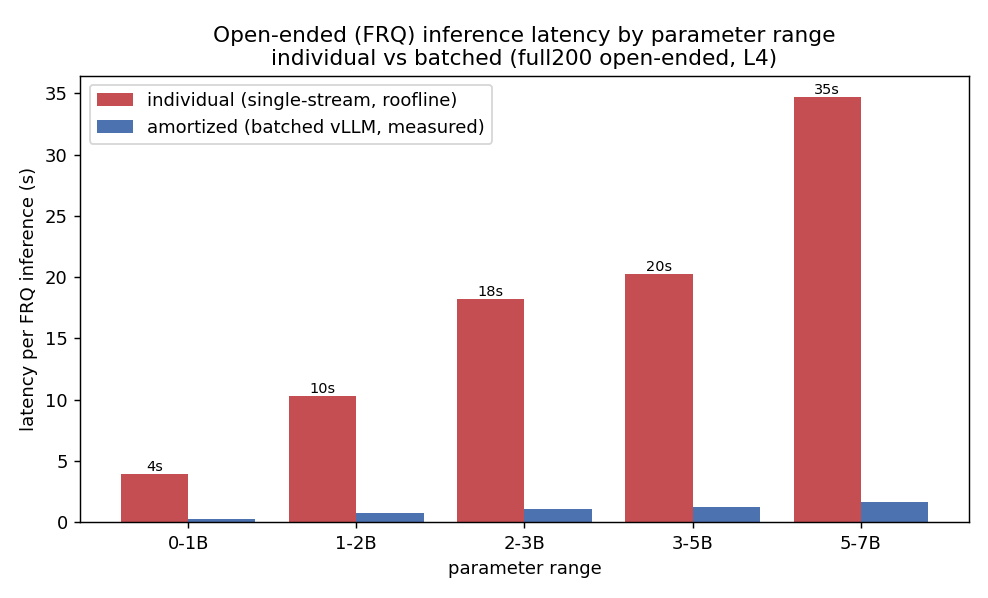
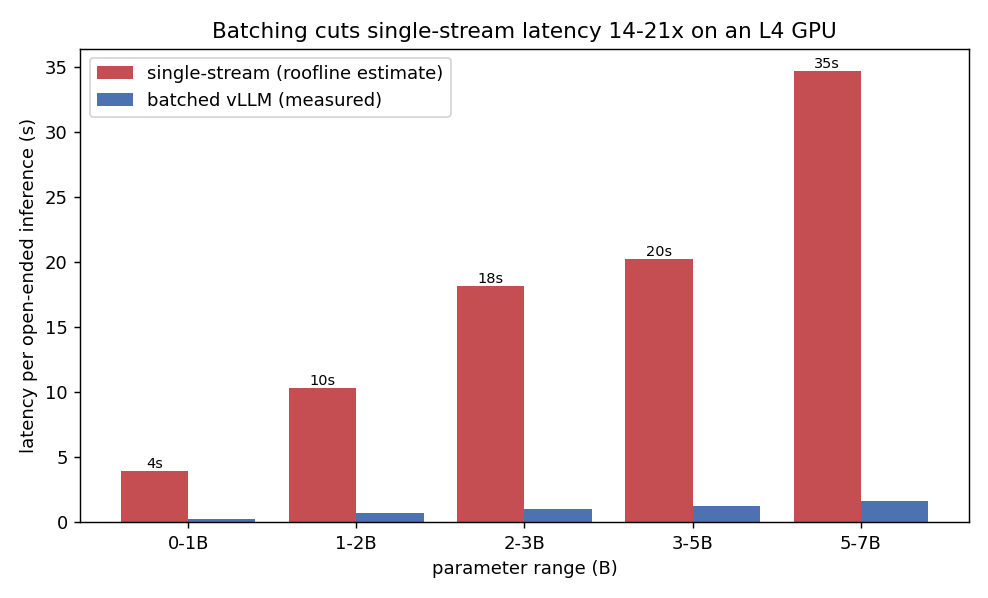
Inference cost: finalized cost-per-inference data and figures; Final_Graphs_and_Data

diff --git a/AdaptiveTesting/Research/04_Inference_Cost/README.md b/AdaptiveTesting/Research/04_Inference_Cost/README.md
@@ -1,87 +1,84 @@
-# Cost per inference vs. model size
+# Inference cost by task type and model size
 
-Measured single-inference latency for the full200 candidate models, converted to
-dollars, split by task type. **MCQ** and **open-ended** are reported separately;
-open-ended is further split into **3 input-token buckets**.
+We measured per-request latency for the full200 candidate models and converted it to
+dollars. MCQ and open-ended tasks are reported separately, and open-ended is split into
+three input-token buckets.
 
 ## Cost basis
-- Hardware: **g6.xlarge** (1× NVIDIA **L4**), on-demand us-east-1 = **$0.8048/hr**
-  (the GPU the full200 inference actually ran on).
-- `cost_per_inference_usd = Latency(s) × 0.8048 / 3600`.
-- `cost_per_1k_usd` = the same × 1000 (easier to read).
-- Raw `mean_latency_s` / `median_latency_s` are included so cost can be rescaled to
-  any other GPU price without re-measuring.
-- Latency is per-request wall time under batched vLLM (temperature 0). It reflects
-  effective throughput cost, not isolated single-stream latency.
+
+- Hardware: g6.xlarge, one NVIDIA L4, on-demand us-east-1 at $0.8048/hr. This is the GPU
+  the full200 inference ran on.
+- `cost_per_inference_usd = latency_s * 0.8048 / 3600`. `cost_per_1k_usd` is that times 1000.
+- We keep raw `mean_latency_s` and `median_latency_s` so cost can be rescaled to any other
+  GPU price without re-measuring.
+- Latency is per-request wall time under batched vLLM at temperature 0, so it reflects
+  effective throughput cost, not single-stream latency.
 
 ## Data sources
-- **Open-ended** (real, measured): `full200_results/Outputs/open/*/*.responses.jsonl`
-  — 52 models × 6 open benchmarks (biggen, bridge, infobench, tutorbench, tutoreval,
-  wildbench), 206,307 inferences with per-item `Prompt Tokens`, `Output Tokens`,
-  `Latency (s)`. All 6 benchmarks are **pooled**; rows are grouped per (model, bucket).
-- **MCQ** (real, measured): `eduLLM-Evals/mcq_runs/run_20260724_211626_mcq/responses.jsonl`
-  — the purely-MCQ generative sweep. Not all models finished; the **24 that completed**
-  are used (benchmark `cdpk_main`, 25 items each) with per-item `latency_sec`.
-  NOTE: the full200 MCQ (pedagogy/piqa/socialiqa) is loglikelihood-scored and records
-  **no latency**, so it cannot provide cost-per-inference — hence this separate run.
 
-## Input-token buckets (open-ended)
-Chosen at ~tertiles of the observed prompt-token distribution (p33≈117, p66≈530):
-- **Short**: `< 128` input tokens  (75,484 inferences)
-- **Medium**: `128–511` input tokens  (58,592 inferences)
-- **Long**: `>= 512` input tokens  (72,231 inferences)
+- Open-ended (measured): `full200_results/Outputs/open/*/*.responses.jsonl`. 52 models
+  across 6 benchmarks (biggen, bridge, infobench, tutorbench, tutoreval, wildbench),
+  206,307 inferences with per-item prompt tokens, output tokens, and latency. The 6
+  benchmarks are pooled and grouped per (model, bucket).
+- MCQ (measured): `eduLLM-Evals/mcq_runs/run_20260724_211626_mcq/responses.jsonl`, the
+  generative MCQ sweep. 24 models finished (benchmark `cdpk_main`, 25 items each) and are
+  used here. The full200 MCQ benchmarks (pedagogy, piqa, socialiqa) are loglikelihood
+  scored and record no latency, so they cannot give a cost per inference. That is why this
+  separate run exists.
 
-## Files
-- `data/mcq_cost_per_inference.csv` — per model: params_b, n_items, mean/median latency, cost.
-- `data/open_ended_cost_per_inference_by_token_bucket.csv` — per (model, bucket): params_b,
-  n, mean prompt/output tokens, mean/median latency, cost.
-- `graphs/individual_latency_by_param_range.png` — the featured figure (see below).
+Open-ended input buckets are cut at the tertiles of the prompt-token distribution (p33
+about 117, p66 about 530): Short is under 128 input tokens (75,484 inferences), Medium is
+128 to 511 (58,592), and Long is 512 or more (72,231).
 
-## Headline numbers (mean across models, cost per 1,000 inferences)
-| Task | Cost / 1k inferences |
+## Result 1: cost per inference by task and input length
+
+MCQ costs about $0.009 per 1,000 inferences. Open-ended costs about $0.20 to $0.23,
+roughly 20x to 25x more.
+
+| Task | Cost per 1k inferences |
 |---|---|
 | MCQ (cdpk_main, 24 models) | ~$0.009 |
-| Open-ended — Short input | ~$0.20 |
-| Open-ended — Medium input | ~$0.21 |
-| Open-ended — Long input | ~$0.23 |
+| Open-ended, Short input | ~$0.20 |
+| Open-ended, Medium input | ~$0.21 |
+| Open-ended, Long input | ~$0.23 |
 
-## Interpretation caveats
-- **Open-ended cost is driven by OUTPUT tokens, not input length**: the 3 input
-  buckets differ by only ~15% (Short→Long), because decode dominates latency. Scatter
-  within a size is large because different models generate very different output lengths.
-- **MCQ is ~20–25× cheaper** than open-ended: the generative MCQ answer is a few tokens,
-  so there is almost no decode cost.
-- MCQ and open-ended use different item sets / model sets and are **not** directly
-  comparable beyond order-of-magnitude.
+Numbers are the mean across models. Output tokens drive open-ended cost, not input length:
+the three input buckets differ by only about 15% from Short to Long because decode
+dominates. MCQ is cheap because the generated answer is a few tokens, so there is almost no
+decode. MCQ and open-ended use different item sets and model sets, so compare them only by
+order of magnitude.
 
-## Individual (single-stream) latency by parameter range — the outline's tutor-cost table
+Data: `data/mcq_cost_per_inference.csv`,
+`data/open_ended_cost_per_inference_by_token_bucket.csv`.
 
-`data/individual_latency_by_param_range.csv` + `graphs/individual_latency_by_param_range.png`
-(script `../scripts/param_range_latency.py`). For each band we report the measured mean
-prompt/output tokens, the measured **amortized (batched)** per-request latency, and an
-estimated **individual (single-stream)** latency from a memory-bandwidth decode roofline
-(L4: 300 GB/s, 60% efficiency, 2 bytes/param).
+## Result 2: single-stream latency by parameter size
 
-| Parameter range | Individual latency (s) | Amortized/batched (s) | batch speed-up | mean out tok |
+![Single-stream vs batched latency by parameter range](graphs/individual_latency_by_param_range.png)
+
+For each size band we report measured mean prompt and output tokens, the measured batched
+per-request latency, and an estimated single-stream latency from a memory-bandwidth decode
+roofline (L4 at 300 GB/s, 60% efficiency, 2 bytes per param).
+
+| Parameter range | Single-stream latency (s) | Batched latency (s) | Batch speed-up | Mean output tokens |
 |---|---:|---:|---:|---:|
-| 0–1B | **4.0** | 0.25 | ~16× | 878 |
-| 1–2B | **10.3** | 0.74 | ~14× | 648 |
-| 2–5B | **19.7** | 1.13 | ~17× | 658 |
-| 5–7B | **34.7** | 1.64 | ~21× | 489 |
+| 0-1B | 4.0 | 0.25 | ~16x | 878 |
+| 1-2B | 10.3 | 0.74 | ~14x | 648 |
+| 2-5B | 19.7 | 1.13 | ~17x | 658 |
+| 5-7B | 34.7 | 1.64 | ~21x | 489 |
 
-Finer split (`band_set=fine` in the CSV): 2–3B = 18.2 s, 3–5B = 20.2 s.
+Finer split (`band_set=fine` in the CSV): 2-3B is 18.2 s, 3-5B is 20.2 s. The single-stream
+figures (about 4, 10, 20, and 35 s) are the values in the outline's tutor-cost table.
 
-**These individual-latency numbers (≈4 / 10 / 20 / 35 s) are the values in the outline's
-"Inference Cost For Tutor Models" table.** Two clarifications for the paper:
+Data: `data/individual_latency_by_param_range.csv` (script
+`../scripts/param_range_latency.py`).
 
-1. **Individual vs. batched.** In production the full200 inference ran batched under vLLM,
-   so the *measured* per-request wall time is only ~0.25–1.6 s (right column). The 4–35 s
-   figures are the *single-stream* latency you would see issuing one request at a time; the
-   ~14–21× gap is the batching throughput win. Be explicit in the paper about which one a
-   given claim uses (checkpoint-time CAT with a warm batched server → use the batched
-   numbers; a cold single-request diagnostic → use the individual numbers).
-2. **Hardware label.** The measurements and roofline here are for the **L4** GPU the
-   full200 sweep actually used. The outline table is captioned "L40S"; an L40S (≈864 GB/s)
-   would be ~2–3× faster on decode. Either re-label the table **L4**, or re-measure on an
-   L40S — see `../GAPS.md`.
+Two caveats:
 
+1. The single-stream and batched columns answer different questions. In production the
+   full200 inference ran batched under vLLM, so measured per-request time is 0.25 to 1.6 s.
+   The 4 to 35 s figures are what you would see issuing one request at a time. State which
+   one a claim uses: a warm batched server at checkpoint time uses the batched numbers, a
+   cold single-request diagnostic uses the single-stream numbers.
+2. The single-stream figures are an L4 roofline estimate (see `../GAPS.md`, gaps 12 and 13),
+   not a direct measurement. The outline table is captioned L40S. An L40S (about 864 GB/s)
+   would decode about 2x to 3x faster. Either relabel the table L4 or re-measure on an L40S.

diff --git a/Final_Graphs_and_Data/cost_per_inference/README.md b/Final_Graphs_and_Data/cost_per_inference/README.md
@@ -1,56 +1,72 @@
-# Cost per inference vs. model size
+# Inference cost by task type and model size
 
-Measured single-inference latency for the full200 candidate models, converted to
-dollars, split by task type. **MCQ** and **open-ended** are reported separately;
-open-ended is further split into **3 input-token buckets**.
+We measured per-request latency for the full200 candidate models and converted it to
+dollars. MCQ and open-ended tasks are reported separately, and open-ended is split into
+three input-token buckets.
 
 ## Cost basis
-- Hardware: **g6.xlarge** (1× NVIDIA **L4**), on-demand us-east-1 = **$0.8048/hr**
-  (the GPU the full200 inference actually ran on).
-- `cost_per_inference_usd = Latency(s) × 0.8048 / 3600`.
-- `cost_per_1k_usd` = the same × 1000 (easier to read).
-- Raw `mean_latency_s` / `median_latency_s` are included so cost can be rescaled to
-  any other GPU price without re-measuring.
-- Latency is per-request wall time under batched vLLM (temperature 0). It reflects
-  effective throughput cost, not isolated single-stream latency.
+
+- Hardware: g6.xlarge, one NVIDIA L4, on-demand us-east-1 at $0.8048/hr. This is the GPU
+  the full200 inference ran on.
+- `cost_per_inference_usd = latency_s * 0.8048 / 3600`. `cost_per_1k_usd` is that times 1000.
+- We keep raw `mean_latency_s` and `median_latency_s` so cost can be rescaled to any other
+  GPU price without re-measuring.
+- Latency is per-request wall time under batched vLLM at temperature 0, so it reflects
+  effective throughput cost, not single-stream latency.
 
 ## Data sources
-- **Open-ended** (real, measured): `full200_results/Outputs/open/*/*.responses.jsonl`
-  — 52 models × 6 open benchmarks (biggen, bridge, infobench, tutorbench, tutoreval,
-  wildbench), 206,307 inferences with per-item `Prompt Tokens`, `Output Tokens`,
-  `Latency (s)`. All 6 benchmarks are **pooled**; rows are grouped per (model, bucket).
-- **MCQ** (real, measured): `eduLLM-Evals/mcq_runs/run_20260724_211626_mcq/responses.jsonl`
-  — the purely-MCQ generative sweep. Not all models finished; the **24 that completed**
-  are used (benchmark `cdpk_main`, 25 items each) with per-item `latency_sec`.
-  NOTE: the full200 MCQ (pedagogy/piqa/socialiqa) is loglikelihood-scored and records
-  **no latency**, so it cannot provide cost-per-inference — hence this separate run.
 
-## Input-token buckets (open-ended)
-Chosen at ~tertiles of the observed prompt-token distribution (p33≈117, p66≈530):
-- **Short**: `< 128` input tokens  (75,484 inferences)
-- **Medium**: `128–511` input tokens  (58,592 inferences)
-- **Long**: `>= 512` input tokens  (72,231 inferences)
+- Open-ended (measured): 52 models across 6 benchmarks (biggen, bridge, infobench,
+  tutorbench, tutoreval, wildbench), 206,307 inferences with per-item prompt tokens, output
+  tokens, and latency. The 6 benchmarks are pooled and grouped per (model, bucket).
+- MCQ (measured): the generative MCQ sweep. 24 models finished (benchmark `cdpk_main`, 25
+  items each) and are used here. The full200 MCQ benchmarks (pedagogy, piqa, socialiqa) are
+  loglikelihood scored and record no latency, so they cannot give a cost per inference. That
+  is why this separate run exists.
 
-## Files
-- `data/mcq_cost_per_inference.csv` — per model: params_b, n_items, mean/median latency, cost.
-- `data/open_ended_cost_per_inference_by_token_bucket.csv` — per (model, bucket): params_b,
-  n, mean prompt/output tokens, mean/median latency, cost.
-- `graphs/mcq_cost_vs_params.png`
-- `graphs/open_cost_vs_params_by_bucket.png`
+Open-ended input buckets are cut at the tertiles of the prompt-token distribution (p33
+about 117, p66 about 530): Short is under 128 input tokens (75,484 inferences), Medium is
+128 to 511 (58,592), and Long is 512 or more (72,231).
 
-## Headline numbers (mean across models, cost per 1,000 inferences)
-| Task | Cost / 1k inferences |
+## Result 1: cost per inference by task and input length
+
+MCQ costs about $0.009 per 1,000 inferences. Open-ended costs about $0.20 to $0.23,
+roughly 20x to 25x more.
+
+| Task | Cost per 1k inferences |
 |---|---|
 | MCQ (cdpk_main, 24 models) | ~$0.009 |
-| Open-ended — Short input | ~$0.20 |
-| Open-ended — Medium input | ~$0.21 |
-| Open-ended — Long input | ~$0.23 |
+| Open-ended, Short input | ~$0.20 |
+| Open-ended, Medium input | ~$0.21 |
+| Open-ended, Long input | ~$0.23 |
 
-## Interpretation caveats
-- **Open-ended cost is driven by OUTPUT tokens, not input length**: the 3 input
-  buckets differ by only ~15% (Short→Long), because decode dominates latency. Scatter
-  within a size is large because different models generate very different output lengths.
-- **MCQ is ~20–25× cheaper** than open-ended: the generative MCQ answer is a few tokens,
-  so there is almost no decode cost.
-- MCQ and open-ended use different item sets / model sets and are **not** directly
-  comparable beyond order-of-magnitude.
+Numbers are the mean across models. Output tokens drive open-ended cost, not input length:
+the three input buckets differ by only about 15% from Short to Long because decode
+dominates. MCQ is cheap because the generated answer is a few tokens, so there is almost no
+decode. MCQ and open-ended use different item sets and model sets, so compare them only by
+order of magnitude.
+
+Data: `data/mcq_cost_per_inference.csv`,
+`data/open_ended_cost_per_inference_by_token_bucket.csv`.
+
+## Result 2: single-stream latency by parameter size
+
+![Single-stream vs batched latency by parameter range](graphs/individual_latency_by_param_range.png)
+
+For each size band we report measured mean prompt and output tokens, the measured batched
+per-request latency, and an estimated single-stream latency from a memory-bandwidth decode
+roofline (L4 at 300 GB/s, 60% efficiency, 2 bytes per param).
+
+| Parameter range | Single-stream latency (s) | Batched latency (s) | Batch speed-up | Mean output tokens |
+|---|---:|---:|---:|---:|
+| 0-1B | 4.0 | 0.25 | ~16x | 878 |
+| 1-2B | 10.3 | 0.74 | ~14x | 648 |
+| 2-5B | 19.7 | 1.13 | ~17x | 658 |
+| 5-7B | 34.7 | 1.64 | ~21x | 489 |
+
+The single-stream figures (about 4, 10, 20, and 35 s) are the values in the outline's
+tutor-cost table. In production the full200 inference ran batched, so measured per-request
+time is 0.25 to 1.6 s. The single-stream figures are an L4 roofline estimate, not a direct
+measurement, and an L40S (about 864 GB/s) would decode about 2x to 3x faster.
+
+Data: `data/individual_latency_by_param_range.csv`.
